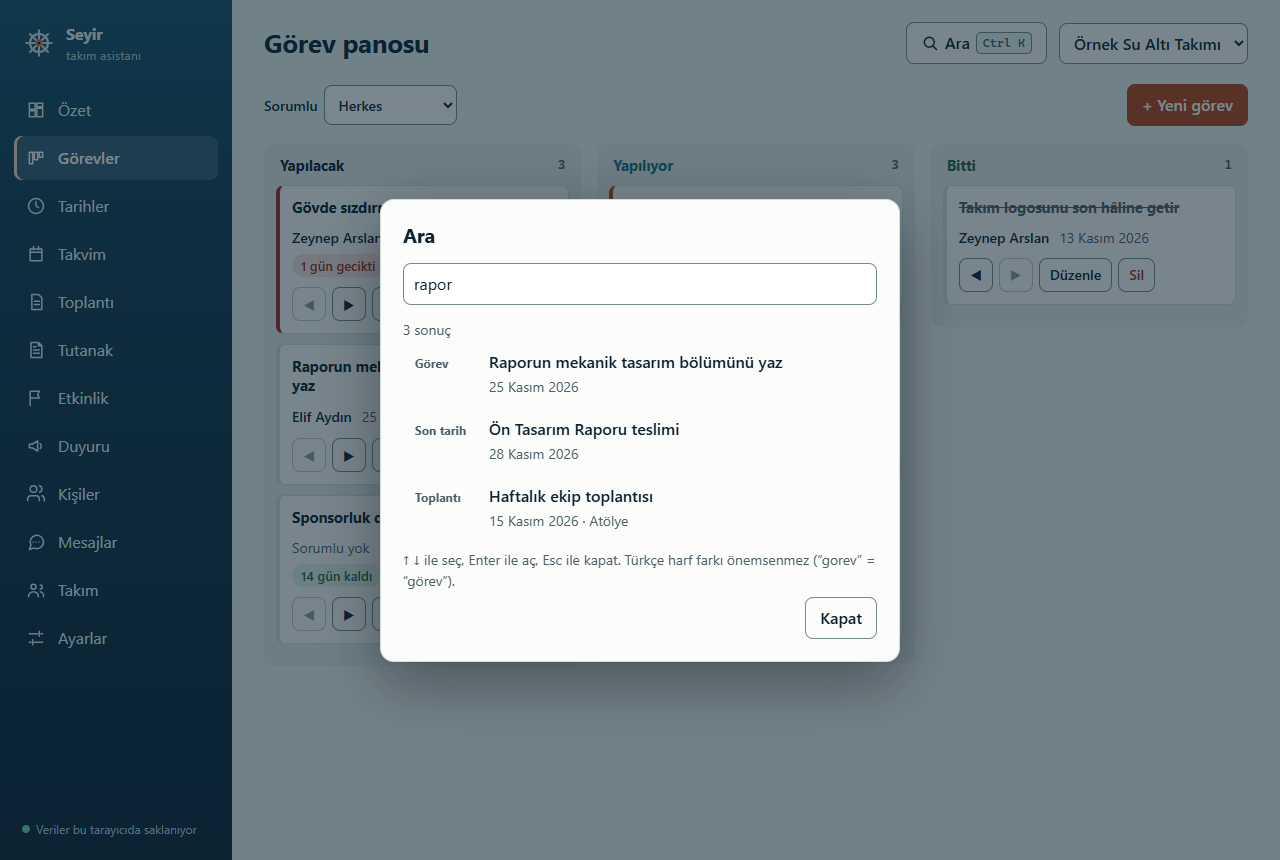
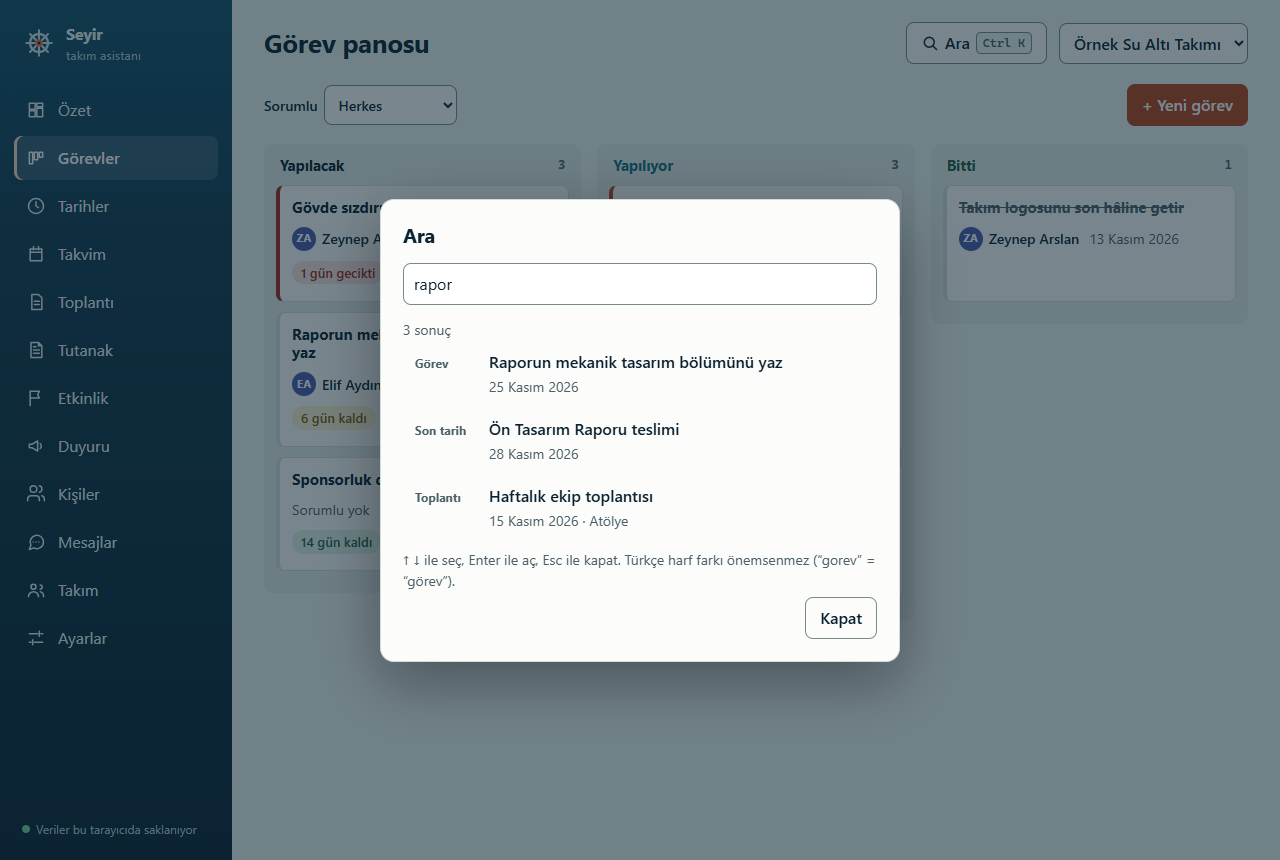
Görev kartı sadeleşti: karta tıklayınca düzenleme, Sil formda, baş harf yuvarlakları
◀ ▶ masaüstünde yalnızca kartın üstüne gelince ya da klavye odağındayken
görünür; dokunmatik ekranda her zaman görünür ve büyüktür. Sorumlunun baş
harfleri kişiye özgü renkte (kontrast testli). Ekran görüntüleri yenilendi.

Changed region(s): [[0.2188, 0.2419, 0.3125, 0.514], [0.75, 0.2419, 0.9062, 0.3326], [0.2188, 0.5442, 0.3125, 0.6953]]

diff --git a/js/ekranlar/gorevler.js b/js/ekranlar/gorevler.js
@@ -33,6 +33,13 @@ function gorevFormu({ gorev = null, varsayilan = {}, uyeler, kaydedince = null }
       { ad: "durum", etiket: "Durum", tur: "secim", secenekler: GOREV_DURUMLARI },
     ],
     degerler: gorev || { durum: "yapilacak", ...varsayilan },
+    // Düzenlemede "Sil" düğmesi formun içinde (kartta değil)
+    sil: gorev ? async () => {
+      if (!confirm('"' + gorev.baslik + '" görevi silinsin mi?')) return false;
+      await durum.depo.sil("gorevler", gorev.id);
+      bildir("Görev silindi");
+      return true;
+    } : null,
     kaydet: async (degerler) => {
       let kayit;
       if (gorev) {
@@ -115,15 +122,6 @@ function panoSurukleBirakBagla(pano) {
   };
 }
 
-async function gorevSil(id) {
-  const gorev = await durum.depo.oku("gorevler", id);
-  if (!gorev) return yenile();
-  if (!confirm('"' + gorev.baslik + '" görevi silinsin mi?')) return;
-  await durum.depo.sil("gorevler", id);
-  bildir("Görev silindi");
-  await yenile();
-}
-
 /* ---------- Çizim ---------- */
 
 function gorevKartiHtml(gorev, uyeler) {
@@ -153,17 +151,19 @@ function gorevKartiHtml(gorev, uyeler) {
       ' aria-label="' + htmlKacis(etiket) + '" title="' + htmlKacis(hedef ? hedef.etiket + " sütununa taşı" : "") + '">' + simge + "</button>";
   };
 
-  return '<article class="gorev-kart ' + vurgu + '" draggable="true" data-id="' + id + '" title="Başka bir sütuna sürükleyebilirsin">' +
-    "<h4>" + baslik + "</h4>" +
+  // Sorumlu: baş harfli renkli yuvarlak + ad (renk kişinin kimliğinden; js/kolaylik.js)
+  const kisi = sorumlu
+    ? '<span class="kisi"><span class="avatar r' + (renkSirasi(gorev.sorumlu_id) + 1) + '" aria-hidden="true">' +
+      htmlKacis(basHarfler(sorumlu)) + "</span>" + htmlKacis(sorumlu) + "</span>"
+    : '<span class="soluk">Sorumlu yok</span>';
+
+  // Kartın tamamı düzenlemeyi açar (fare); klavye ve ekran okuyucu için başlık bir düğmedir.
+  // Silme, düzenleme penceresinin içindedir.
+  return '<article class="gorev-kart ' + vurgu + '" draggable="true" data-eylem="duzenle" data-id="' + id + '">' +
+    '<h4><button type="button" class="kart-baslik" data-eylem="duzenle" data-id="' + id + '" aria-label="Düzenle: ' + baslik + '">' + baslik + "</button></h4>" +
     (gorev.aciklama ? '<p class="aciklama">' + htmlKacis(gorev.aciklama) + "</p>" : "") +
-    '<div class="gorev-alt">' +
-    (sorumlu ? '<span class="kisi">' + htmlKacis(sorumlu) + "</span>" : '<span class="soluk">Sorumlu yok</span>') +
-    tarih + "</div>" +
-    '<div class="gorev-dugmeler">' +
-    tasiDugmesi("geri", "◀", sira - 1) +
-    tasiDugmesi("ileri", "▶", sira + 1) +
-    kayitDugmesi("duzenle", gorev.id, "Düzenle", gorev.baslik) +
-    kayitDugmesi("sil", gorev.id, "Sil", gorev.baslik, "tehlike") +
+    '<div class="gorev-alt">' + kisi + tarih +
+    '<span class="gorev-dugmeler">' + tasiDugmesi("geri", "◀", sira - 1) + tasiDugmesi("ileri", "▶", sira + 1) + "</span>" +
     "</div></article>";
 }
 
@@ -220,7 +220,6 @@ async function gorevlerEkraniCiz(kok) {
     },
     ileri: (id) => gorevTasi(id, +1),
     geri: (id) => gorevTasi(id, -1),
-    sil: gorevSil,
     "suzgec-kaldir": () => { gorevSorumluFiltresi = ""; return yenile(); },
   });
 }

diff --git a/css/stil.css b/css/stil.css
@@ -32,6 +32,12 @@
   --vurgu: #b8451a;
   --vurgu-koyu: #9a3812;
   --vurgu-yazi: #ffffff;
+  --avatar-1: #1d6a85;       /* baş harf yuvarlakları (beyaz yazı; iki temada aynı) */
+  --avatar-2: #7a4bb0;
+  --avatar-3: #2f7d4f;
+  --avatar-4: #8a5a14;
+  --avatar-5: #4b5bb0;
+  --avatar-6: #a23b5a;
   --odak: #b8451a;          /* klavye odak halkası */
 
   /* Nötr rozet */
@@ -704,3 +710,31 @@ dialog::backdrop { background: var(--perde); }
   @bottom-left { font-family: "Times New Roman", Tinos, "Liberation Serif", serif; font-size: 9pt; color: #4d4d4d; vertical-align: top; padding: 1.2mm 0 0 9mm; }
   @bottom-right { font-family: "Times New Roman", Tinos, "Liberation Serif", serif; font-size: 9pt; color: #4d4d4d; vertical-align: top; padding: 1.2mm 9mm 0 0; }
 }
+
+/* Görev kartı (sade): kartın tamamı düzenlemeyi açar, başlık klavye için düğme,
+   ◀ ▶ masaüstünde yalnızca kartın üstüne gelince / odaktayken görünür. */
+.gorev-kart[data-eylem] { cursor: pointer; }
+.gorev-kart:hover { border-color: var(--giris-cizgi); }
+.kart-baslik {
+  padding: 0; border: 0; background: none; color: inherit; font: inherit;
+  text-align: left; cursor: pointer; overflow-wrap: anywhere;
+}
+.kart-baslik:hover { text-decoration: underline; }
+.sutun[data-durum="bitti"] .kart-baslik { text-decoration: line-through; }
+.gorev-alt .kisi { display: inline-flex; align-items: center; gap: 6px; }
+.avatar {
+  display: inline-grid; place-items: center; flex: none;
+  width: 24px; height: 24px; border-radius: 50%;
+  font-size: 11px; font-weight: 700; letter-spacing: .02em; color: var(--vurgu-yazi);
+}
+.avatar.r1 { background: var(--avatar-1); } .avatar.r2 { background: var(--avatar-2); }
+.avatar.r3 { background: var(--avatar-3); } .avatar.r4 { background: var(--avatar-4); }
+.avatar.r5 { background: var(--avatar-5); } .avatar.r6 { background: var(--avatar-6); }
+.gorev-alt .gorev-dugmeler { display: inline-flex; gap: 4px; margin: 0 0 0 auto; }
+.gorev-alt .gorev-dugmeler .dugme { min-height: 32px; min-width: 32px; padding: 2px 8px; }
+@media (hover: hover) and (pointer: fine) {
+  .gorev-alt .gorev-dugmeler { opacity: 0; transition: opacity .15s; }
+  .gorev-kart:hover .gorev-dugmeler, .gorev-kart:focus-within .gorev-dugmeler { opacity: 1; }
+}
+@media (hover: none) { .gorev-alt .gorev-dugmeler .dugme { min-height: 40px; min-width: 40px; } }
+.form-dugmeler .form-sil { margin-right: auto; }

diff --git a/js/arayuz.js b/js/arayuz.js
@@ -175,7 +175,9 @@ function saatYaz(zaman) {
   return gun + " " + String(d.getHours()).padStart(2, "0") + ":" + String(d.getMinutes()).padStart(2, "0");
 }
 
-function formAc({ baslik, alanlar, degerler = {}, kaydetYazi = "Kaydet", kaydet }) {
+// sil (isteğe bağlı): verilirse formda solda "Sil" düğmesi çıkar. true dönerse
+// pencere kapanır ve ekran yenilenir (kullanıcı onaydan vazgeçerse false döner).
+function formAc({ baslik, alanlar, degerler = {}, kaydetYazi = "Kaydet", kaydet, sil = null }) {
   const pencere = sec("#pencere");
   const depo = tarayiciDeposu();
   const taslakAdi = taslakAnahtari("form", durum.takim && durum.takim.id, baslik, degerler);
@@ -193,6 +195,7 @@ function formAc({ baslik, alanlar, degerler = {}, kaydetYazi = "Kaydet", kaydet 
     alanlar.map((alan) => alanHtml(alan, gosterilen[alan.ad])).join("") +
     '<p class="form-hata" role="alert" hidden></p>' +
     '<div class="form-dugmeler">' +
+    (sil ? '<button type="button" class="dugme tehlike form-sil" data-sil>Sil</button>' : "") +
     '<button type="button" class="dugme" data-kapat>Vazgeç</button>' +
     '<button type="submit" class="dugme ana">' + htmlKacis(kaydetYazi) + "</button>" +
     "</div></form>";
@@ -204,11 +207,25 @@ function formAc({ baslik, alanlar, degerler = {}, kaydetYazi = "Kaydet", kaydet 
     if (depo) taslakSil(depo, taslakAdi);
     pencere.close();
   };
+  const silDugmesi = form.querySelector("[data-sil]");
+  if (silDugmesi) {
+    silDugmesi.onclick = async () => {
+      try {
+        if (!(await sil())) return;
+        if (depo) taslakSil(depo, taslakAdi);
+        pencere.close();
+        await yenile();
+      } catch (hata) {
+        pencere.close();
+        hataGoster(hata);
+      }
+    };
+  }
   const taslakAt = form.querySelector("[data-taslak-at]");
   if (taslakAt) {
     taslakAt.onclick = () => {
       taslakSil(depo, taslakAdi);
-      formAc({ baslik, alanlar, degerler, kaydetYazi, kaydet }); // özgün değerlerle yeniden aç
+      formAc({ baslik, alanlar, degerler, kaydetYazi, kaydet, sil }); // özgün değerlerle yeniden aç
       bildir("Taslak silindi");
     };
   }

diff --git a/js/kolaylik.js b/js/kolaylik.js
@@ -269,6 +269,21 @@ function aramaYap(dizin, sorgu, sinir = 30) {
     .map(({ oge }) => oge);
 }
 
+/* ---------- 6) Baş harf yuvarlağı (görev kartındaki sorumlu) ----------
+   "Ece Nur Demir" -> "ED" (ilk ve son ad), "şükrü ışık" -> "ŞI", "Can" -> "C".
+   Renk, kişinin kimliğinden hesaplanır: aynı kişi her yerde aynı renkte. */
+function basHarfler(ad) {
+  const parcalar = String(ad || "").trim().split(/\s+/).filter(Boolean);
+  if (!parcalar.length) return "?";
+  const ilk = parcalar[0].charAt(0);
+  const son = parcalar.length > 1 ? parcalar[parcalar.length - 1].charAt(0) : "";
+  return (ilk + son).toLocaleUpperCase("tr");
+}
+
+function renkSirasi(metin, adet = 6) {
+  return parseInt(kisaOzet(String(metin || "")), 36) % adet;
+}
+
 if (typeof module !== "undefined") {
   module.exports = {
     sadelestir,
@@ -277,5 +292,6 @@ if (typeof module !== "undefined") {
     icsOlustur, takvimOlaylari, saatCoz,
     KISAYOLLAR, kisayolBul,
     aramaDizini, aramaYap,
+    basHarfler, renkSirasi,
   };
 }

diff --git a/testler/kolaylik.test.js b/testler/kolaylik.test.js
@@ -198,3 +198,24 @@ test("kisayolBul: yazı yazarken '/' ve '?' karakter olarak kalır; Alt'lı ve t
   assert.equal(k.kisayolBul({ key: "a" }), null);
   assert.equal(k.kisayolBul({ key: "/", ctrlKey: true }), null);
 });
+
+/* ---------- 6) Baş harf yuvarlağı ---------- */
+
+test("basHarfler: ilk ve son adın baş harfi, Türkçe büyük harfle", () => {
+  assert.equal(k.basHarfler("Deniz Kaya"), "DK");
+  assert.equal(k.basHarfler("Ece Nur Demir"), "ED");
+  assert.equal(k.basHarfler("  şükrü   ışık "), "ŞI");
+  assert.equal(k.basHarfler("Can"), "C");
+  assert.equal(k.basHarfler(""), "?");
+});
+
+test("renkSirasi: aynı kimlik hep aynı renk, değer 0..adet-1 arasında", () => {
+  assert.equal(k.renkSirasi("u1"), k.renkSirasi("u1"));
+  const gorulen = new Set();
+  for (let i = 0; i < 200; i++) {
+    const r = k.renkSirasi("uye-" + i);
+    assert.ok(Number.isInteger(r) && r >= 0 && r < 6);
+    gorulen.add(r);
+  }
+  assert.equal(gorulen.size, 6, "renkler dağılmalı");
+});

diff --git a/testler/kontrast.test.js b/testler/kontrast.test.js
@@ -50,6 +50,9 @@ const YAZI_CIFTLERI = [
   ["yaklasiyor-y", "yaklasiyor-z", 4.5], ["rahat-y", "rahat-z", 4.5],
   ["gecikti-y", "kagit", 4.5], ["rahat-y", "sutun", 4.5],
   ["yazi", "balon", 4.5],
+  // Görev kartındaki baş harf yuvarlakları: beyaz yazı
+  ["vurgu-yazi", "avatar-1", 4.5], ["vurgu-yazi", "avatar-2", 4.5], ["vurgu-yazi", "avatar-3", 4.5],
+  ["vurgu-yazi", "avatar-4", 4.5], ["vurgu-yazi", "avatar-5", 4.5], ["vurgu-yazi", "avatar-6", 4.5],
   // Yan menü ve öne çıkan kutu (iki temada aynı)
   ["gece-yazi", "gece-1", 4.5], ["gece-yazi", "gece-3", 4.5],
   ["gece-soluk", "gece-1", 4.5], ["gece-soluk", "gece-2", 4.5], ["gece-vurgu", "gece-2", 4.5],
